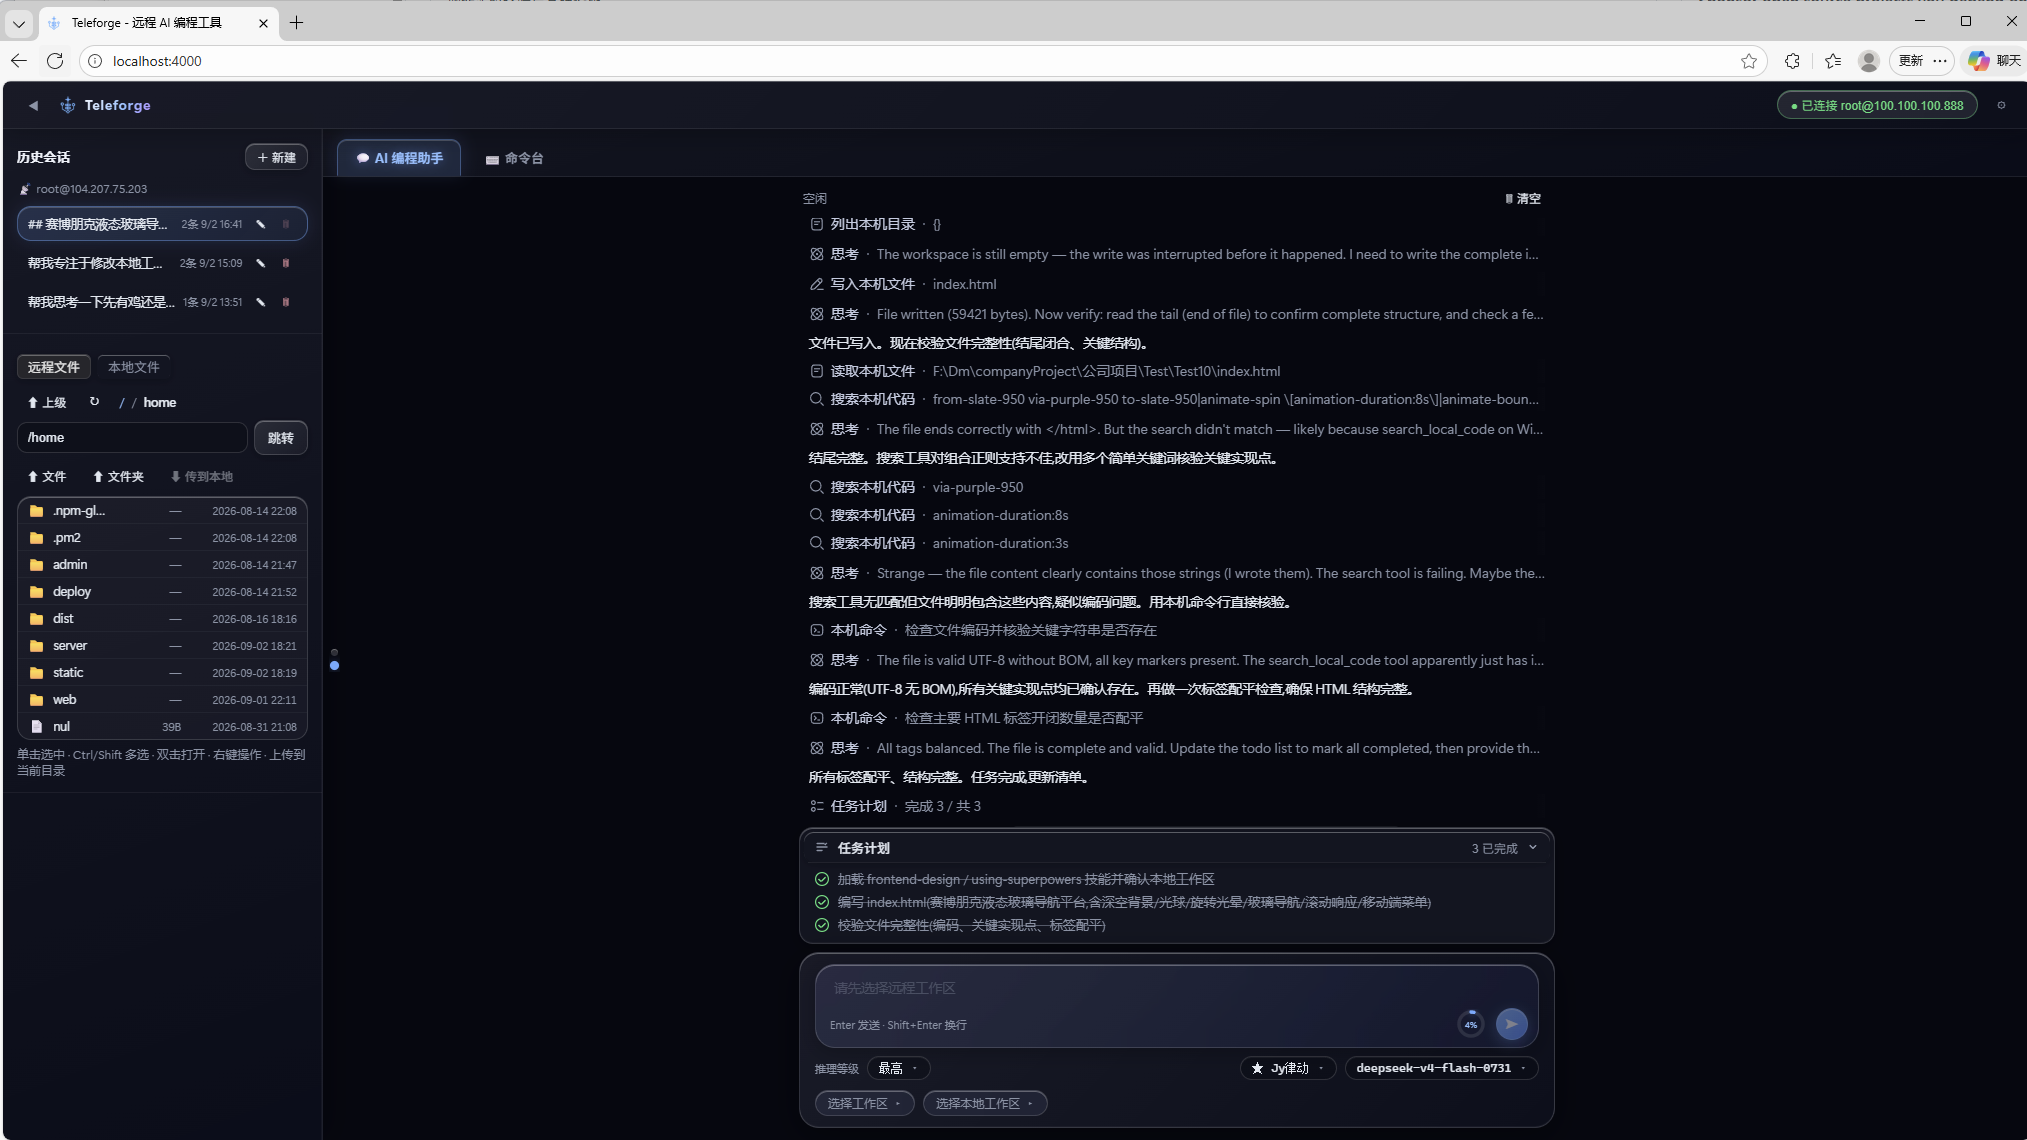
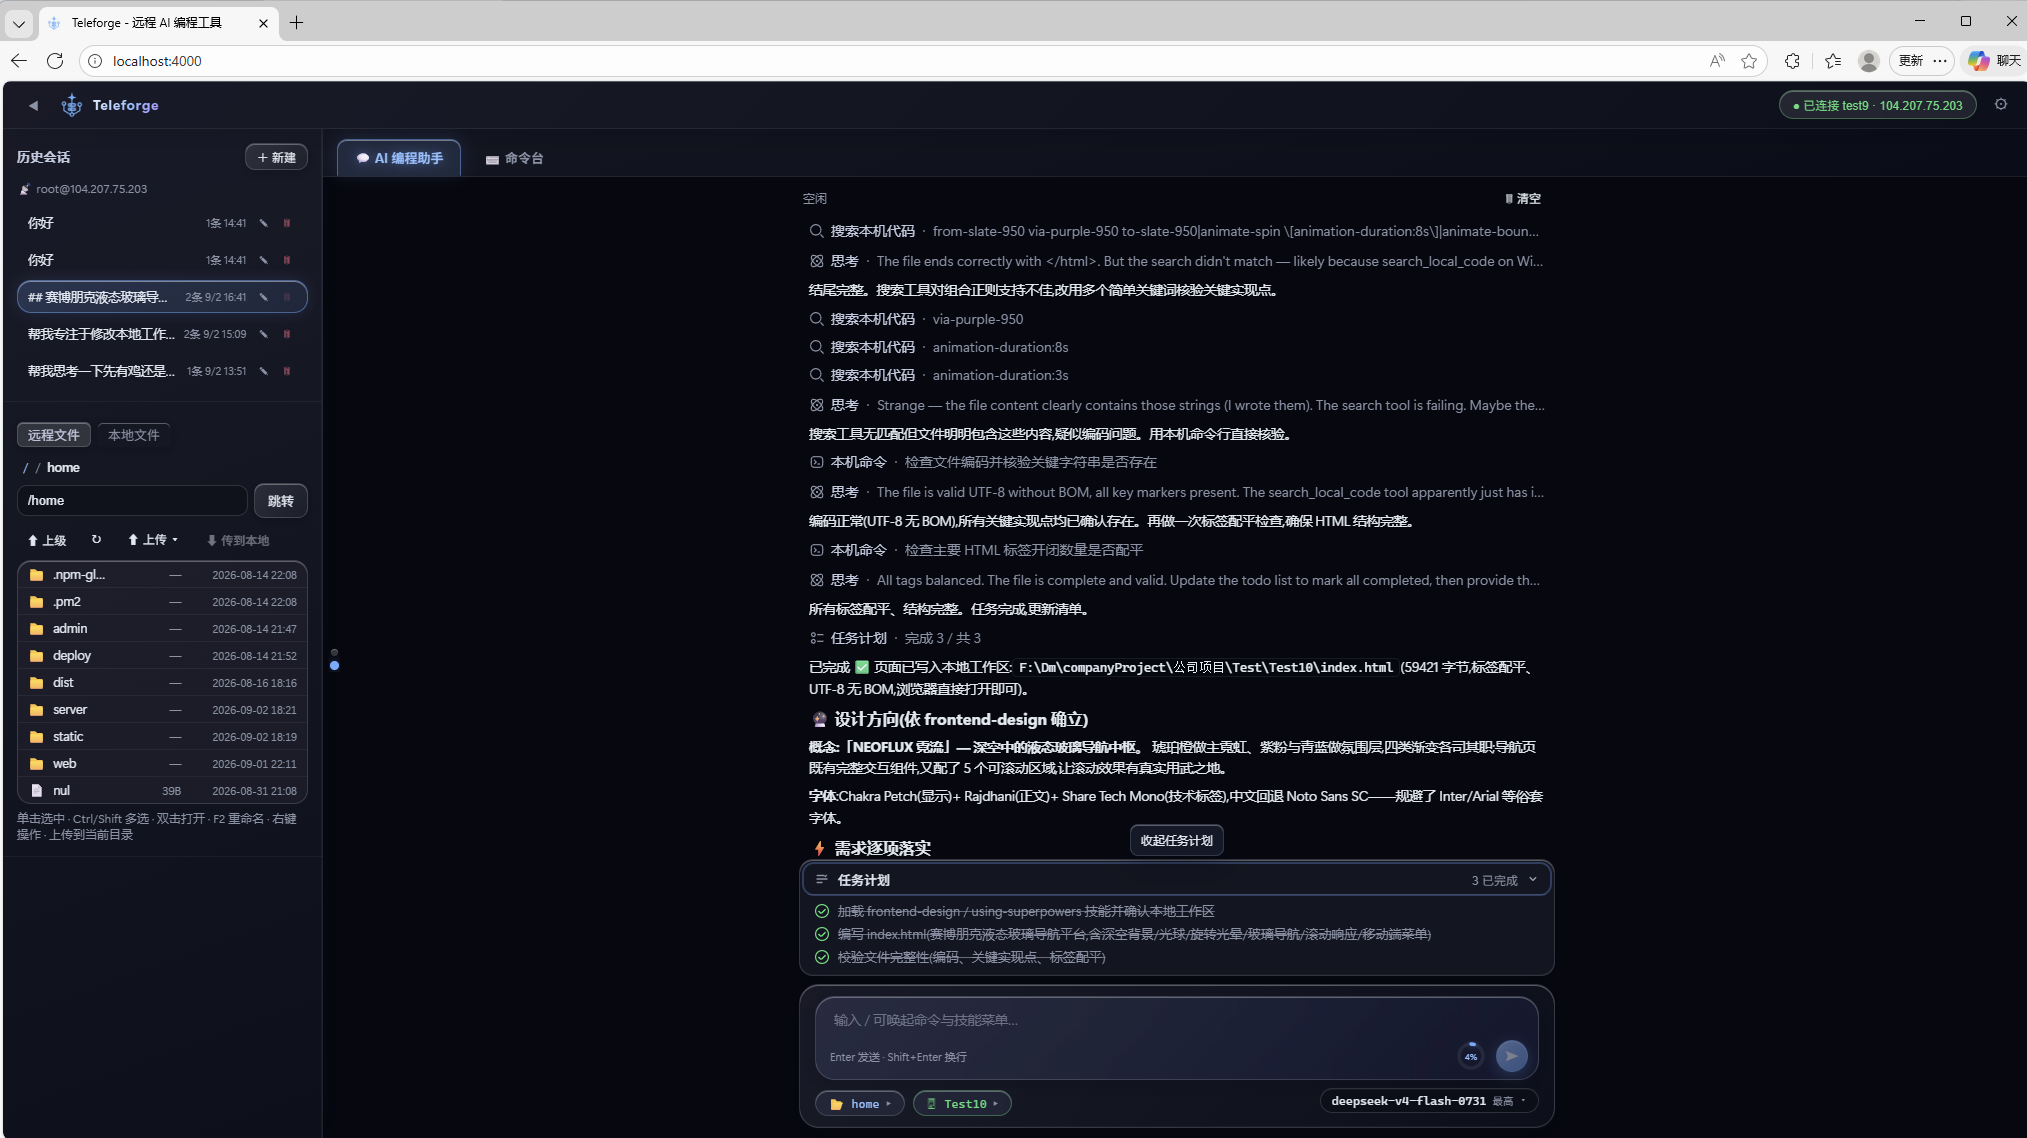
更新文档截图

diff --git a/web/src/components/FileManager.tsx b/web/src/components/FileManager.tsx
@@ -536,32 +536,31 @@ export default function FileManager({ workspace, home, connId, localCwd, onCwdCh
               onClick={(ev) => handleRowClick(ev, e)}
               onDoubleClick={() => openEntry(e)}
               onContextMenu={(ev) => openMenu(ev, e)}>
-              {renaming === e.name
-                ? <input className="fm-rename" autoFocus value={renameDraft}
-                    spellCheck={false}
-                    onChange={(ev) => setRenameDraft(ev.target.value)}
-                    onFocus={(ev) => {
-                      // 默认选中不含扩展名的部分,方便直接输入新名
-                      const dot = ev.target.value.lastIndexOf('.');
-                      if (dot > 0) ev.target.setSelectionRange(0, dot);
-                      else ev.target.select();
-                    }}
-                    onClick={(ev) => ev.stopPropagation()}
-                    onDoubleClick={(ev) => ev.stopPropagation()}
-                    onContextMenu={(ev) => ev.preventDefault()}
-                    onKeyDown={(ev) => {
-                      ev.stopPropagation();
-                      // 中文等输入法组词中:Enter 是确认候选字,不在此提交重命名
-                      if (ev.nativeEvent.isComposing) return;
-                      if (ev.key === 'Enter') commitRename();
-                      else if (ev.key === 'Escape') { setRenaming(null); setRenameDraft(''); }
-                    }}
-                    onBlur={commitRename} />
-                : (<>
-                    <span className="fm-ico">{e.type === 'dir' ? '📁' : e.type === 'link' ? '🔗' : '📄'}</span>
-                    <span className="fm-name" data-tip={e.name} data-tip-ellipsis data-tip-follow>{e.name}</span>
-                  </>)}
-              {renaming !== e.name && (
+              <span className={`fm-ico${renaming === e.name ? ' fm-hide' : ''}`}>{e.type === 'dir' ? '📁' : e.type === 'link' ? '🔗' : '📄'}</span>
+              <span className={`fm-name${renaming === e.name ? ' fm-hide' : ''}`} data-tip={e.name} data-tip-ellipsis data-tip-follow>{e.name}</span>
+              {renaming === e.name ? (
+                // 重命名输入框:绝对定位覆盖整行(见 .fm-rename),不参与布局 → 行高不变
+                <input className="fm-rename" autoFocus value={renameDraft}
+                  spellCheck={false}
+                  onChange={(ev) => setRenameDraft(ev.target.value)}
+                  onFocus={(ev) => {
+                    // 默认选中不含扩展名的部分,方便直接输入新名
+                    const dot = ev.target.value.lastIndexOf('.');
+                    if (dot > 0) ev.target.setSelectionRange(0, dot);
+                    else ev.target.select();
+                  }}
+                  onClick={(ev) => ev.stopPropagation()}
+                  onDoubleClick={(ev) => ev.stopPropagation()}
+                  onContextMenu={(ev) => ev.preventDefault()}
+                  onKeyDown={(ev) => {
+                    ev.stopPropagation();
+                    // 中文等输入法组词中:Enter 是确认候选字,不在此提交重命名
+                    if (ev.nativeEvent.isComposing) return;
+                    if (ev.key === 'Enter') commitRename();
+                    else if (ev.key === 'Escape') { setRenaming(null); setRenameDraft(''); }
+                  }}
+                  onBlur={commitRename} />
+              ) : (
                 <>
                   <span className="fm-size">{e.type === 'dir' ? '—' : fmtSize(e.size)}</span>
                   <span className="fm-time">{fmtTime(e.mtime)}</span>

diff --git a/web/src/components/LocalFileManager.tsx b/web/src/components/LocalFileManager.tsx
@@ -470,32 +470,31 @@ export default function LocalFileManager({ workspace, home, remoteCwd, onCwdChan
               onClick={(ev) => handleRowClick(ev, e)}
               onDoubleClick={() => openEntry(e)}
               onContextMenu={(ev) => openMenu(ev, e)}>
-              {renaming === e.name
-                ? <input className="fm-rename" autoFocus value={renameDraft}
-                    spellCheck={false}
-                    onChange={(ev) => setRenameDraft(ev.target.value)}
-                    onFocus={(ev) => {
-                      // 默认选中不含扩展名的部分,方便直接输入新名
-                      const dot = ev.target.value.lastIndexOf('.');
-                      if (dot > 0) ev.target.setSelectionRange(0, dot);
-                      else ev.target.select();
-                    }}
-                    onClick={(ev) => ev.stopPropagation()}
-                    onDoubleClick={(ev) => ev.stopPropagation()}
-                    onContextMenu={(ev) => ev.preventDefault()}
-                    onKeyDown={(ev) => {
-                      ev.stopPropagation();
-                      // 中文等输入法组词中:Enter 是确认候选字,不在此提交重命名
-                      if (ev.nativeEvent.isComposing) return;
-                      if (ev.key === 'Enter') commitRename();
-                      else if (ev.key === 'Escape') { setRenaming(null); setRenameDraft(''); }
-                    }}
-                    onBlur={commitRename} />
-                : (<>
-                    <span className="fm-ico">{e.type === 'dir' ? '📁' : e.type === 'link' ? '🔗' : '📄'}</span>
-                    <span className="fm-name" data-tip={e.name} data-tip-ellipsis data-tip-follow>{e.name}</span>
-                  </>)}
-              {renaming !== e.name && (
+              <span className={`fm-ico${renaming === e.name ? ' fm-hide' : ''}`}>{e.type === 'dir' ? '📁' : e.type === 'link' ? '🔗' : '📄'}</span>
+              <span className={`fm-name${renaming === e.name ? ' fm-hide' : ''}`} data-tip={e.name} data-tip-ellipsis data-tip-follow>{e.name}</span>
+              {renaming === e.name ? (
+                // 重命名输入框:绝对定位覆盖整行(见 .fm-rename),不参与布局 → 行高不变
+                <input className="fm-rename" autoFocus value={renameDraft}
+                  spellCheck={false}
+                  onChange={(ev) => setRenameDraft(ev.target.value)}
+                  onFocus={(ev) => {
+                    // 默认选中不含扩展名的部分,方便直接输入新名
+                    const dot = ev.target.value.lastIndexOf('.');
+                    if (dot > 0) ev.target.setSelectionRange(0, dot);
+                    else ev.target.select();
+                  }}
+                  onClick={(ev) => ev.stopPropagation()}
+                  onDoubleClick={(ev) => ev.stopPropagation()}
+                  onContextMenu={(ev) => ev.preventDefault()}
+                  onKeyDown={(ev) => {
+                    ev.stopPropagation();
+                    // 中文等输入法组词中:Enter 是确认候选字,不在此提交重命名
+                    if (ev.nativeEvent.isComposing) return;
+                    if (ev.key === 'Enter') commitRename();
+                    else if (ev.key === 'Escape') { setRenaming(null); setRenameDraft(''); }
+                  }}
+                  onBlur={commitRename} />
+              ) : (
                 <>
                   <span className="fm-size">{e.type === 'dir' ? '—' : fmtSize(e.size)}</span>
                   <span className="fm-time">{fmtTime(e.mtime)}</span>

diff --git a/web/src/styles.scss b/web/src/styles.scss
@@ -409,6 +409,7 @@ button.sm { padding: 4px 11px; font-size: 12px; }
 .fmlist:focus { outline: none; }
 .fmph { padding: 14px 12px; }
 .fmrow {
+  position: relative; /* 作为重命名输入框(绝对定位覆盖整行)的定位基准 */
   display: flex; align-items: center; gap: 8px; padding: 5px 10px; font-size: 12.5px;
   cursor: default; user-select: none;
   border-bottom: 1px solid var(--line-faint);
@@ -421,20 +422,25 @@ button.sm { padding: 4px 11px; font-size: 12px; }
   box-shadow: inset 0 0 0 1px var(--accent-border);
 }
 .fm-ico { flex: none; }
+/* 重命名时隐藏底层内容但保留占位:visibility 不参与布局,行高不变,消除抖动 */
+.fm-hide { visibility: hidden; }
 /* 文件名列:超长省略显示(悬停有完整名称 tooltip) */
 .fm-name { flex: 1; min-width: 0; overflow: hidden; text-overflow: ellipsis; white-space: nowrap; }
 .fm-size { flex: none; width: 62px; text-align: right; color: var(--muted); font-size: 11.5px; font-variant-numeric: tabular-nums; }
 .fm-time { flex: none; width: 108px; text-align: right; color: var(--muted); font-size: 11px; font-variant-numeric: tabular-nums; }
-/* 重命名时整行变成输入框:撑满剩余空间,方便编辑长文件名 */
+/* 重命名输入框:绝对定位覆盖整行(图标/名称/大小/时间都在框下),
+   不参与布局 → 行高完全不变,进出重命名不会抖动 */
 .fm-rename {
-  flex: 1; min-width: 0; height: 22px; padding: 0 6px;
+  position: absolute; left: 10px; right: 10px; top: 50%; transform: translateY(-50%);
+  z-index: 1; height: 20px; padding: 0 6px;
   border: 1px solid var(--accent-border); border-radius: 5px;
   background: var(--code-bg-solid); color: var(--text); font-size: 12.5px;
   outline: none; box-shadow: 0 0 0 2px var(--focus-ring);
 }
-/* 进入子目录时的行内加载(文件夹右侧转圈,不触发全局加载) */
+/* 进入子目录时的行内加载(文件夹右侧转圈,不触发全局加载)。
+   position:relative+z-index 让其能浮在重命名输入框(覆盖整行)之上 */
 .fm-loading {
-  flex: none; width: 12px; height: 12px; margin-left: 4px;
+  position: relative; z-index: 2; flex: none; width: 12px; height: 12px; margin-left: 4px;
   border: 2px solid var(--accent-soft); border-top-color: var(--accent);
   border-radius: 50%; animation: fm-spin .7s linear infinite;
 }
